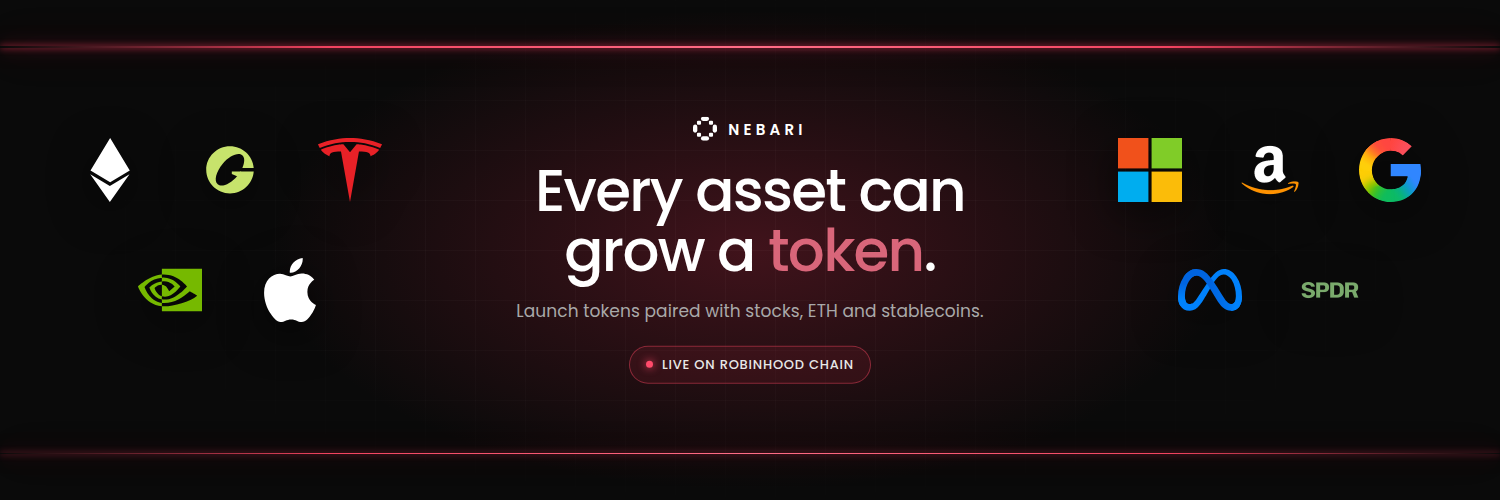
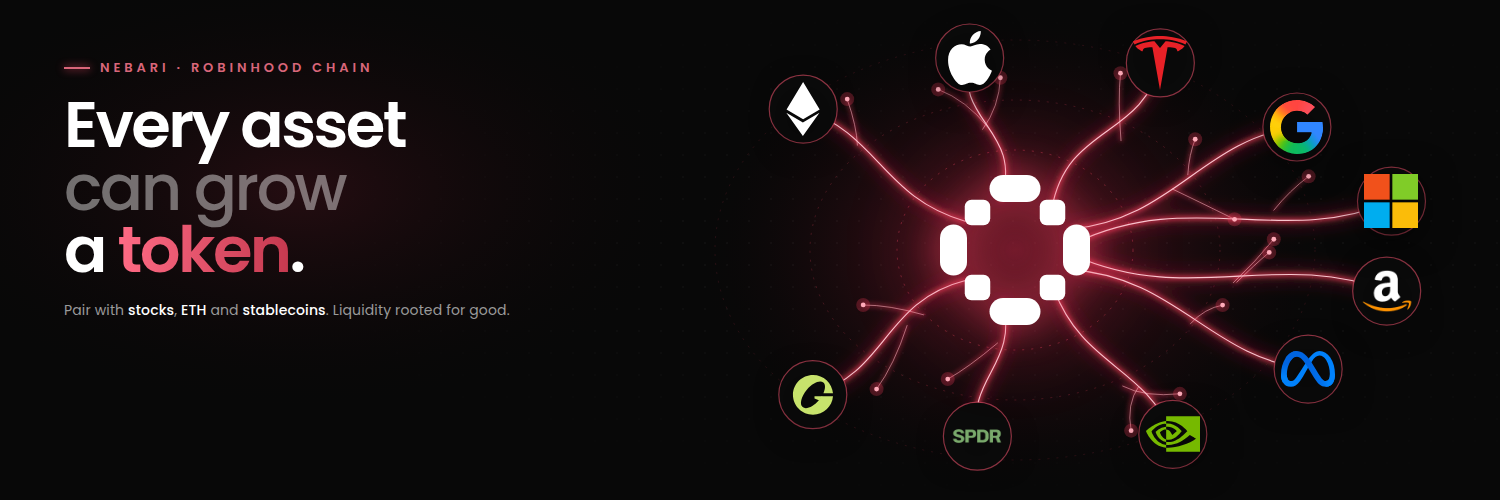
Nebari: X header as a root system growing from the mark
The mark sits large on the right with a maroon halo and faint dotted
orbits. Neon roots grow from it to each of the ten asset logos, every
logo in a ringed socket, with short offshoots ending in points of
light. The slogan runs large on the left over three lines, clear of the
profile picture's corner. The layout is computed in the page so the
roots always meet the logos.

Claude-Session: https://claude.ai/code/session_019cZVYVR4XpBDnyP8dUKT2Q

Changed region(s): [[0.0, 0.06, 1.0, 0.93]]

diff --git a/nebari-site/brand/header.html b/nebari-site/brand/header.html
@@ -4,71 +4,131 @@
 <meta charset="utf-8">
 <title>Nebari — X header</title>
 <!-- The X (Twitter) header, 1500x500. Rendered to header.png and header@2x.png; edit here and re-render.
-     X lays the profile picture over the lower-left corner (about x < 372, y > 333), so nothing sits there. -->
+     Idea: nebari is the root spread of a bonsai. The mark sits on the right and neon roots grow
+     from it to every asset. X lays the profile picture over the lower-left corner
+     (about x < 372, y > 333), so the words stay above it. -->
 <style>
   @font-face { font-family: 'Poppins'; font-weight: 400; src: url('fonts/Poppins-Regular.ttf'); }
   @font-face { font-family: 'Poppins'; font-weight: 500; src: url('fonts/Poppins-Medium.ttf'); }
   @font-face { font-family: 'Poppins'; font-weight: 600; src: url('fonts/Poppins-SemiBold.ttf'); }
   html, body { margin: 0; }
-  .hdr { position: relative; width: 1500px; height: 500px; overflow: hidden; background: #0a0a0a; font-family: 'Poppins', sans-serif; color: #fff; }
-
-  /* a faint grid that fades out towards the edges */
-  .grid { position: absolute; inset: 0;
-    background-image: linear-gradient(rgba(255,255,255,0.045) 1px, transparent 1px), linear-gradient(90deg, rgba(255,255,255,0.045) 1px, transparent 1px);
-    background-size: 50px 50px; background-position: 25px 0;
-    -webkit-mask-image: radial-gradient(ellipse 60% 70% at 50% 50%, #000 0%, rgba(0,0,0,0.5) 45%, transparent 80%);
-            mask-image: radial-gradient(ellipse 60% 70% at 50% 50%, #000 0%, rgba(0,0,0,0.5) 45%, transparent 80%); }
-  /* a soft maroon light behind the words */
-  .glow { position: absolute; inset: 0; background: radial-gradient(ellipse 32% 48% at 50% 50%, rgba(140,31,51,0.42) 0%, rgba(140,31,51,0) 100%); }
-
-  /* two thin neon rules framing the header */
-  .rule { position: absolute; left: 0; right: 0; height: 1.5px;
-    background: linear-gradient(90deg, rgba(255,70,100,0) 0%, rgba(255,70,100,0.95) 22%, rgba(255,110,135,1) 50%, rgba(255,70,100,0.95) 78%, rgba(255,70,100,0) 100%);
-    box-shadow: 0 0 6px rgba(255,60,95,0.9), 0 0 18px rgba(214,40,75,0.65), 0 0 42px rgba(184,36,63,0.45); }
-  .rule.top { top: 46px; }
-  .rule.bottom { bottom: 46px; }
-
-  /* the marks on their own: no disc, no ring, a soft shadow that follows the shape */
-  .logo { position: absolute; width: 64px; height: 64px; transform: translate(-50%, -50%); z-index: 2;
-    filter: drop-shadow(0 10px 22px rgba(0,0,0,0.65)); }
-  .logo img { display: block; width: 100%; height: 100%; object-fit: contain; }
-  .center { position: absolute; left: 50%; top: 50%; transform: translate(-50%, -50%); text-align: center; width: 640px; z-index: 2; }
-  .brand { display: inline-flex; align-items: center; gap: 11px; font-weight: 600; font-size: 15px; letter-spacing: .28em; margin-bottom: 20px; color: #fff; }
-  .brand svg { width: 24px; height: 24px; display: block; }
-  h1 { margin: 0; font-weight: 500; font-size: 58px; line-height: 1.04; letter-spacing: -0.03em; }
-  h1 em { font-style: normal; color: #d9667a; }
-  .sub { margin: 16px 0 0; font-size: 17px; font-weight: 400; color: #a9a9a9; letter-spacing: .005em; }
-  .chip { display: inline-flex; align-items: center; gap: 9px; margin-top: 22px; font-size: 13px; font-weight: 500; letter-spacing: .06em; text-transform: uppercase; color: #e8e8e8;
-    border: 1px solid rgba(197,57,79,0.6); background: rgba(140,31,51,0.18); padding: 8px 16px; border-radius: 999px; }
-  .chip i { width: 7px; height: 7px; border-radius: 50%; background: #ff4b6b; box-shadow: 0 0 8px #ff4b6b; display: block; }
+  .hdr { position: relative; width: 1500px; height: 500px; overflow: hidden; background: #080808; font-family: 'Poppins', sans-serif; color: #fff; }
+  svg.roots { position: absolute; inset: 0; width: 1500px; height: 500px; }
+  .logo { position: absolute; width: 54px; height: 54px; transform: translate(-50%, -50%); filter: drop-shadow(0 8px 18px rgba(0,0,0,0.8)); }
+  .logo img { width: 100%; height: 100%; object-fit: contain; display: block; }
+  .mark { position: absolute; left: 1015px; top: 250px; width: 150px; height: 150px; transform: translate(-50%, -50%);
+    filter: drop-shadow(0 0 18px rgba(255, 70, 100, 0.55)) drop-shadow(0 0 44px rgba(197, 40, 70, 0.45)); }
+  .mark svg { width: 100%; height: 100%; display: block; }
+  .words { position: absolute; left: 64px; top: 58px; }
+  .kicker { display: flex; align-items: center; gap: 10px; font-size: 13px; font-weight: 600; letter-spacing: .3em; color: #d9667a; margin-bottom: 16px; }
+  .kicker i { width: 26px; height: 1.5px; background: #d9667a; box-shadow: 0 0 8px #ff4b6b; display: block; }
+  h1 { margin: 0; font-weight: 600; font-size: 64px; line-height: 0.98; letter-spacing: -0.04em; }
+  h1 .soft { color: rgba(255,255,255,0.42); font-weight: 500; }
+  h1 em { font-style: normal; background: linear-gradient(90deg, #ff6b85, #c5394f); -webkit-background-clip: text; background-clip: text; color: transparent; }
+  .tag { margin-top: 18px; font-size: 14px; color: #9a9a9a; letter-spacing: .01em; }
+  .tag b { color: #fff; font-weight: 500; }
 </style>
 </head>
 <body>
-<div class="hdr">
-  <div class="grid"></div>
-  <div class="glow"></div>
-  <div class="rule top"></div>
-  <div class="rule bottom"></div>
+<div class="hdr" id="hdr">
+  <svg class="roots" id="roots" viewBox="0 0 1500 500" aria-hidden="true">
+    <defs>
+      <radialGradient id="halo" cx="50%" cy="50%" r="50%">
+        <stop offset="0" stop-color="#8c1f33" stop-opacity="0.7"/>
+        <stop offset="0.5" stop-color="#5b1321" stop-opacity="0.25"/>
+        <stop offset="1" stop-color="#000" stop-opacity="0"/>
+      </radialGradient>
+      <radialGradient id="leftglow" cx="50%" cy="50%" r="50%">
+        <stop offset="0" stop-color="#8c1f33" stop-opacity="0.22"/>
+        <stop offset="1" stop-color="#000" stop-opacity="0"/>
+      </radialGradient>
+      <filter id="blur-wide" x="-50%" y="-50%" width="200%" height="200%"><feGaussianBlur stdDeviation="9"/></filter>
+      <filter id="blur-tight" x="-50%" y="-50%" width="200%" height="200%"><feGaussianBlur stdDeviation="2.6"/></filter>
+      <pattern id="dots" width="22" height="22" patternUnits="userSpaceOnUse"><circle cx="1" cy="1" r="1" fill="#fff" fill-opacity="0.07"/></pattern>
+      <radialGradient id="dotmask-g" cx="70%" cy="50%" r="55%"><stop offset="0" stop-color="#fff"/><stop offset="1" stop-color="#000"/></radialGradient>
+      <mask id="dotmask"><rect width="1500" height="500" fill="url(#dotmask-g)"/></mask>
+    </defs>
+    <rect width="1500" height="500" fill="url(#dots)" mask="url(#dotmask)"/>
+    <ellipse cx="300" cy="190" rx="420" ry="230" fill="url(#leftglow)"/>
+    <ellipse cx="1015" cy="250" rx="330" ry="250" fill="url(#halo)"/>
+    <g id="rings" fill="none"></g>
+    <g id="glow-wide" fill="none" stroke-linecap="round" filter="url(#blur-wide)"></g>
+    <g id="glow-tight" fill="none" stroke-linecap="round" filter="url(#blur-tight)"></g>
+    <g id="core" fill="none" stroke-linecap="round"></g>
+    <g id="nodes"></g>
+  </svg>
 
-  <!-- left cluster -->
-  <span class="logo" style="left:110px; top:170px"><img src="../assets/logos/bare/eth.svg" alt=""></span>
-  <span class="logo" style="left:230px; top:170px"><img src="../assets/logos/bare/usdg.svg" alt=""></span>
-  <span class="logo" style="left:350px; top:170px"><img src="../assets/logos/bare/tsla.svg" alt=""></span>
-  <span class="logo" style="left:170px; top:290px"><img src="../assets/logos/bare/nvda.svg" alt=""></span>
-  <span class="logo" style="left:290px; top:290px"><img src="../assets/logos/bare/aapl.svg" alt=""></span>
-  <!-- right cluster -->
-  <span class="logo" style="left:1150px; top:170px"><img src="../assets/logos/bare/msft.svg" alt=""></span>
-  <span class="logo" style="left:1270px; top:170px"><img src="../assets/logos/bare/amzn.png" alt=""></span>
-  <span class="logo" style="left:1390px; top:170px"><img src="../assets/logos/bare/googl.svg" alt=""></span>
-  <span class="logo" style="left:1210px; top:290px"><img src="../assets/logos/bare/meta.svg" alt=""></span>
-  <span class="logo" style="left:1330px; top:290px"><img src="../assets/logos/bare/spy.png" alt=""></span>
+  <div class="words">
+    <div class="kicker"><i></i>NEBARI · ROBINHOOD CHAIN</div>
+    <h1>Every asset<br><span class="soft">can grow</span><br>a <em>token</em>.</h1>
+    <div class="tag">Pair with <b>stocks</b>, <b>ETH</b> and <b>stablecoins</b>. Liquidity rooted for good.</div>
+  </div>
 
-  <div class="center">
-    <div class="brand"><svg viewBox="0 0 100 100" fill="#fff" aria-hidden="true"><rect x="33" y="0" width="34" height="18" rx="9"/><rect x="33" y="82" width="34" height="18" rx="9"/><rect x="0" y="33" width="18" height="34" rx="9"/><rect x="82" y="33" width="18" height="34" rx="9"/><rect x="16.5" y="16.5" width="17" height="17" rx="4.5"/><rect x="66.5" y="16.5" width="17" height="17" rx="4.5"/><rect x="16.5" y="66.5" width="17" height="17" rx="4.5"/><rect x="66.5" y="66.5" width="17" height="17" rx="4.5"/></svg>NEBARI</div>
-    <h1>Every asset can<br>grow a <em>token</em>.</h1>
-    <p class="sub">Launch tokens paired with stocks, ETH and stablecoins.</p>
-    <span class="chip"><i></i>Live on Robinhood Chain</span>
+  <div class="mark">
+    <svg viewBox="0 0 100 100" fill="#fff" aria-hidden="true"><rect x="33" y="0" width="34" height="18" rx="9"/><rect x="33" y="82" width="34" height="18" rx="9"/><rect x="0" y="33" width="18" height="34" rx="9"/><rect x="82" y="33" width="18" height="34" rx="9"/><rect x="16.5" y="16.5" width="17" height="17" rx="4.5"/><rect x="66.5" y="16.5" width="17" height="17" rx="4.5"/><rect x="16.5" y="66.5" width="17" height="17" rx="4.5"/><rect x="66.5" y="66.5" width="17" height="17" rx="4.5"/></svg>
   </div>
 </div>
+
+<script>
+  // Everything is placed from here so the roots always meet the logos exactly.
+  const C = { x: 1015, y: 250 };                    // the mark
+  const ASSETS = [                                  // angle (deg, 0 = right), reach (0..1), file
+    ['eth',   -128, 0.86, 'svg'], ['aapl',  -97, 0.93, 'svg'], ['tsla',  -68, 0.97, 'svg'],
+    ['googl', -40,  0.92, 'svg'], ['msft',  -14, 0.97, 'svg'], ['amzn',   12, 0.95, 'png'],
+    ['meta',   38,  0.93, 'svg'], ['nvda',   66, 0.97, 'svg'], ['spy',    96, 0.9,  'png'],
+    ['usdg',  126,  0.86, 'svg'],
+  ];
+  const RX = 400, RY = 208;
+  const hdr = document.getElementById('hdr');
+  const NS = 'http://www.w3.org/2000/svg';
+  const add = (g, tag, attrs) => { const el = document.createElementNS(NS, tag); for (const k in attrs) el.setAttribute(k, attrs[k]); document.getElementById(g).appendChild(el); return el; };
+  let seed = 7; const rnd = () => (seed = (seed * 16807) % 2147483647) / 2147483647;
+
+  // faint orbit rings around the mark
+  [[118, 100, 0.5], [205, 150, 0.28], [300, 210, 0.16]].forEach(([rx, ry, o]) =>
+    add('rings', 'ellipse', { cx: C.x, cy: C.y, rx, ry, stroke: '#c5394f', 'stroke-opacity': o, 'stroke-width': 1, 'stroke-dasharray': '2 7' }));
+
+  function root(ex, ey, width, bend) {
+    const dx = ex - C.x, dy = ey - C.y, len = Math.hypot(dx, dy);
+    const ux = dx / len, uy = dy / len, px = -uy, py = ux;
+    const sx = C.x + ux * 60, sy = C.y + uy * 52;              // leave from the edge of the mark
+    const c1x = sx + ux * len * 0.32 + px * bend, c1y = sy + uy * len * 0.32 + py * bend;
+    const c2x = ex - ux * len * 0.3 - px * bend * 0.8, c2y = ey - uy * len * 0.3 - py * bend * 0.8;
+    const d = `M ${sx.toFixed(1)} ${sy.toFixed(1)} C ${c1x.toFixed(1)} ${c1y.toFixed(1)}, ${c2x.toFixed(1)} ${c2y.toFixed(1)}, ${ex.toFixed(1)} ${ey.toFixed(1)}`;
+    add('glow-wide', 'path', { d, stroke: '#c0263f', 'stroke-width': width * 5, 'stroke-opacity': 0.5 });
+    add('glow-tight', 'path', { d, stroke: '#ff3f5f', 'stroke-width': width * 2.2, 'stroke-opacity': 0.85 });
+    add('core', 'path', { d, stroke: '#ffd0d8', 'stroke-width': width * 0.7, 'stroke-opacity': 0.95 });
+    return { c1x, c1y, c2x, c2y, sx, sy };
+  }
+
+  // main roots, one per asset, each ending under its logo
+  ASSETS.forEach(([sym, deg, reach, ext], i) => {
+    const a = deg * Math.PI / 180;
+    const x = C.x + Math.cos(a) * RX * reach, y = C.y + Math.sin(a) * RY * reach;
+    const bend = (i % 2 ? 1 : -1) * (26 + rnd() * 22);
+    const r = root(x, y, 1.6, bend);
+    // one or two short offshoots per root that end in a point of light
+    const n = 1 + (i % 2);
+    for (let k = 0; k < n; k++) {
+      const t = 0.35 + rnd() * 0.3;
+      const bx = r.sx + (x - r.sx) * t + (rnd() - 0.5) * 30, by = r.sy + (y - r.sy) * t + (rnd() - 0.5) * 20;
+      const ang = Math.atan2(y - C.y, x - C.x) + (rnd() < 0.5 ? -1 : 1) * (0.5 + rnd() * 0.5);
+      const l = 34 + rnd() * 40;
+      const ex = bx + Math.cos(ang) * l, ey = by + Math.sin(ang) * l;
+      const d = `M ${bx.toFixed(1)} ${by.toFixed(1)} Q ${(bx + ex) / 2 + (rnd() - 0.5) * 18} ${(by + ey) / 2 + (rnd() - 0.5) * 18}, ${ex.toFixed(1)} ${ey.toFixed(1)}`;
+      add('glow-tight', 'path', { d, stroke: '#ff3f5f', 'stroke-width': 1.8, 'stroke-opacity': 0.7 });
+      add('core', 'path', { d, stroke: '#ffb3c0', 'stroke-width': 0.7, 'stroke-opacity': 0.8 });
+      add('nodes', 'circle', { cx: ex, cy: ey, r: 2.4, fill: '#ffd0d8' });
+      add('nodes', 'circle', { cx: ex, cy: ey, r: 7, fill: '#ff3f5f', 'fill-opacity': 0.25 });
+    }
+    // a socket of light where the root meets the logo
+    add('nodes', 'circle', { cx: x, cy: y, r: 34, fill: '#0b0b0b' });
+    add('nodes', 'circle', { cx: x, cy: y, r: 34, fill: 'none', stroke: '#ff5a74', 'stroke-opacity': 0.55, 'stroke-width': 1.2 });
+    const img = document.createElement('span');
+    img.className = 'logo'; img.style.left = x + 'px'; img.style.top = y + 'px';
+    img.innerHTML = `<img src="../assets/logos/bare/${sym}.${ext}" alt="">`;
+    hdr.appendChild(img);
+  });
+</script>
 </body>
 </html>
